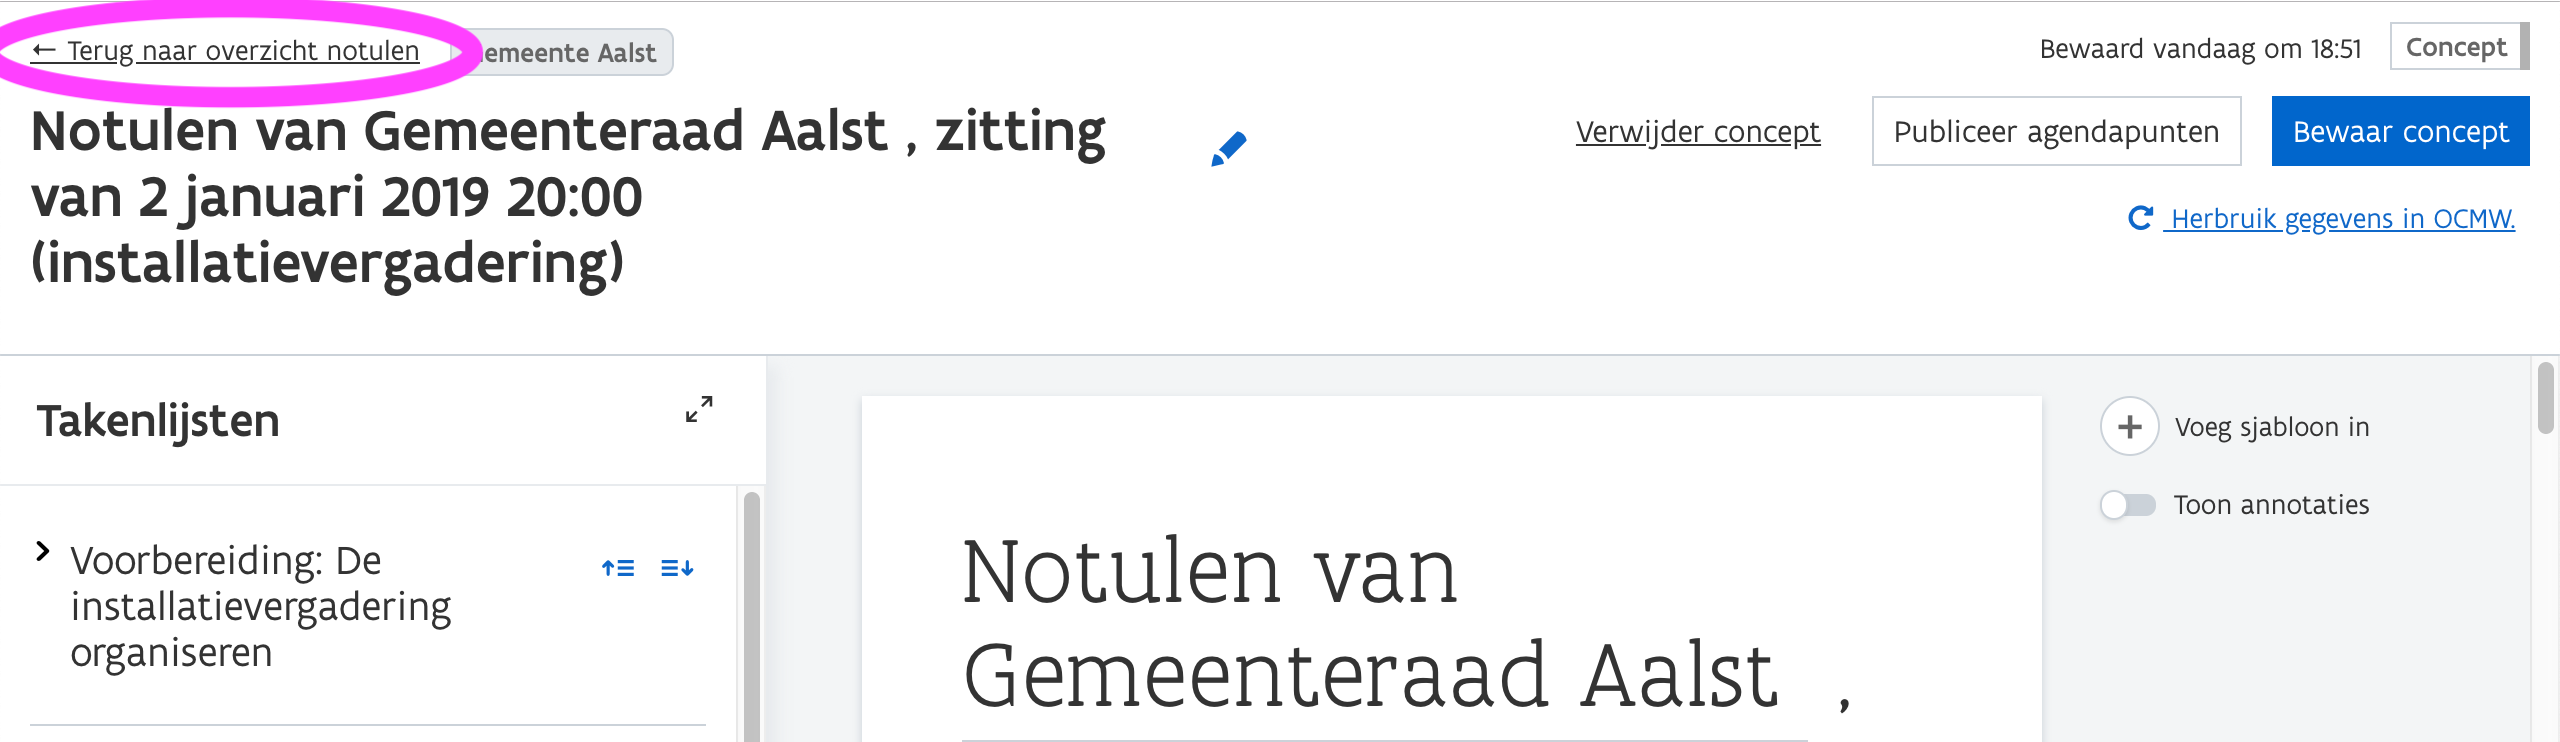
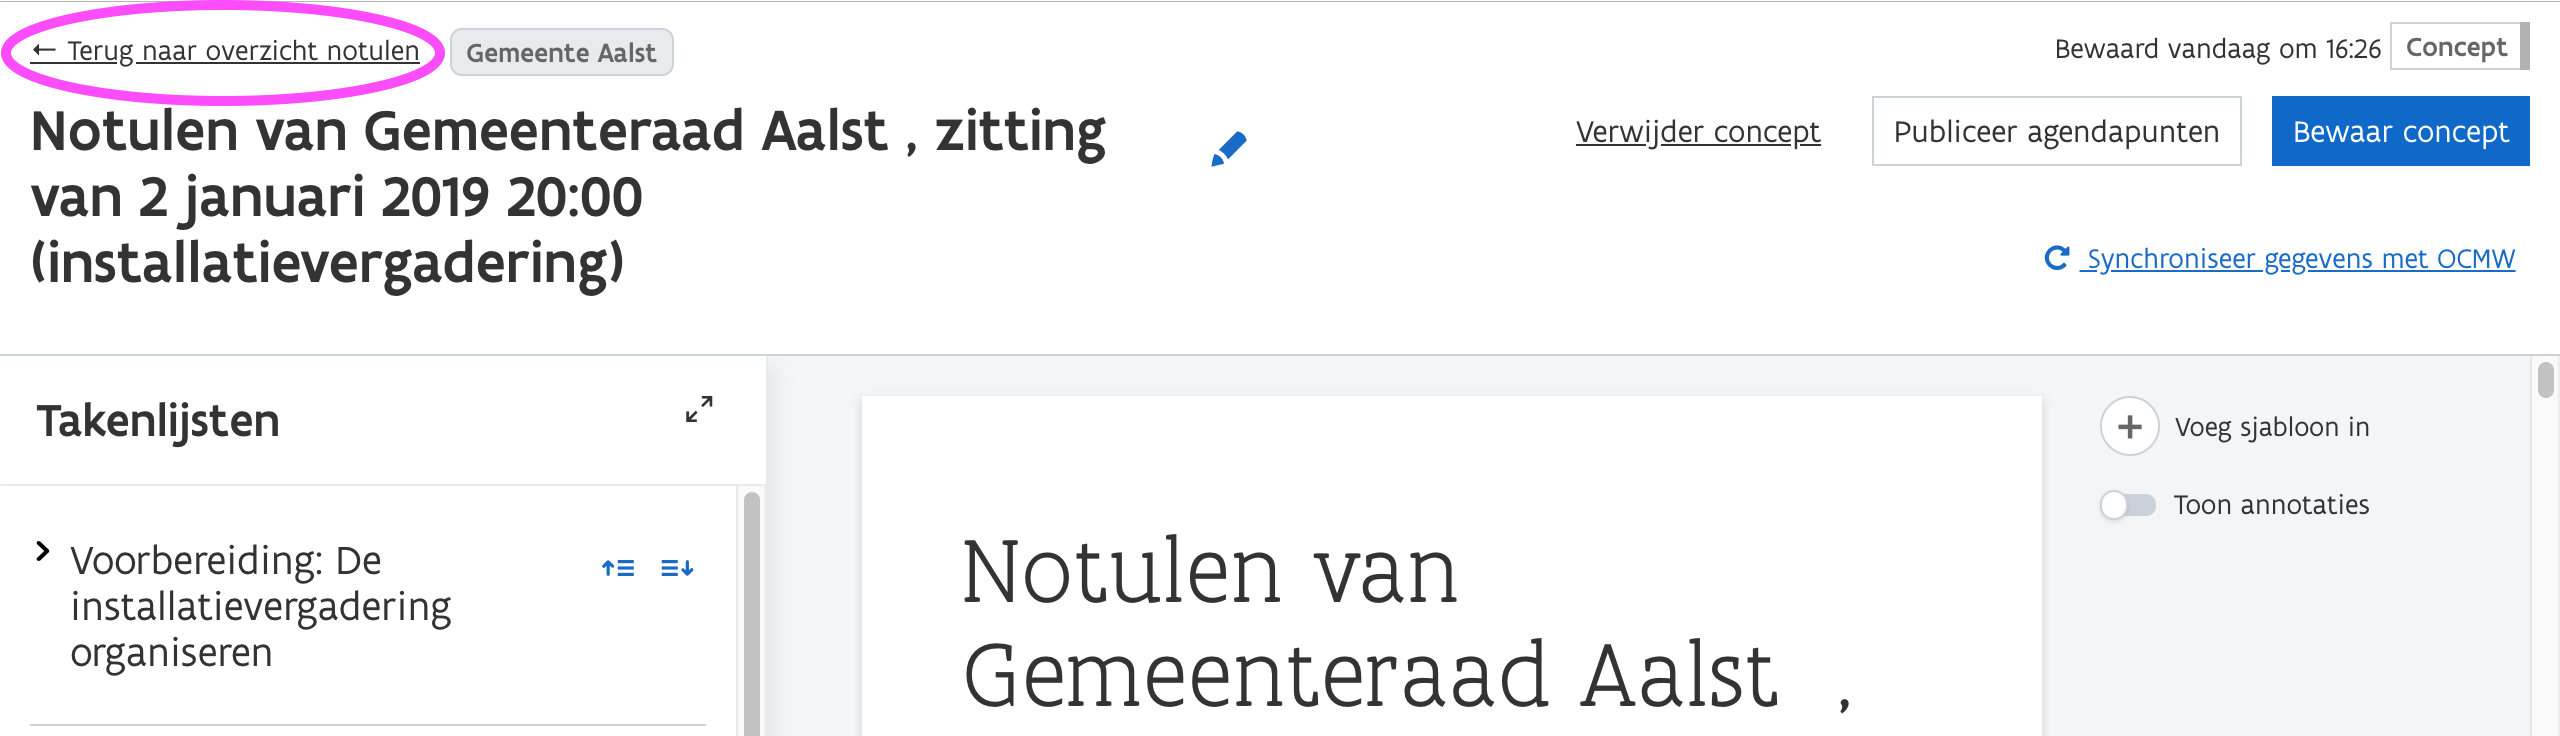
Update images to dutch and reformulate some issues

diff --git a/index.html b/index.html
@@ -275,10 +275,10 @@
               <p>Vervolgens verschijnt er een popup, die u enkele veilige opties voorstelt om u mee aan te melden.</p>
 
               <div class="vl-grid">
-                <div class="vl-col--6-12 vl-col--1-1--s">
+                <div class="vl-col--6-12 vl-col--6-12--m vl-col--1-1--s">
                   <img class="cus-manual__picture cus-u-spacer--large" src="img/login/login-popup.png">
                 </div>
-                <div class="vl-col--6-12 vl-col--1-1--s">
+                <div class="vl-col--6-12 vl-col--6-12--m vl-col--1-1--s">
                   <img class="cus-manual__picture cus-u-spacer--large" src="img/login/login-keuzes.png">
                 </div>
               </div>
@@ -310,11 +310,11 @@
                 	<p>U komt op het tabblad "ontwerpen" terecht. Daar vindt u al de notulen die in voorbereiding of in behandeling zijn.</p>
 									<img src="img/overzicht/overzicht-0-1-ontwerpen-leeg.png" class="cus-manual__picture cus-u-spacer--large">
 								</div>
-		            <div class="vl-col--6-12 vl-col--1-1--s">
+		            <div class="vl-col--6-12 vl-col--1-1--m vl-col--1-1--s">
 		            	<p>Eens notulen gepubliceerd en goedgekeurd zijn, komen ze in het tabblad "goedgekeurd" terecht.</p>
 									<img src="img/overzicht/overzicht-0-2-goedgekeurd-leeg.png" class="cus-manual__picture cus-u-spacer--large">
 								</div>
-		            <div class="vl-col--6-12 vl-col--1-1--s">
+		            <div class="vl-col--6-12 vl-col--1-1--m vl-col--1-1--s">
 		            	<p>Concepten kunnen altijd verwijderd worden, en komen in de prullenbak terecht.</p>
 									<img src="img/overzicht/overzicht-0-3-prullenbak-leeg.png" class="cus-manual__picture cus-u-spacer--large">
 								</div>
@@ -350,10 +350,10 @@
 							<img src="img/notuleren/notuleren-0-3-kies-sjabloon.png" class="cus-manual__picture cus-u-spacer--large">
 
               <div class="vl-grid">
-              	<div class="vl-col--5-12">
+              	<div class="vl-col--5-12 vl-col--1-1--m vl-col--1-1--s">
 									<img src="img/notuleren/notuleren-0-4-kies-sjabloon-optie.png" class="cus-manual__picture cus-u-spacer--large">
               	</div>
-              	<div class="vl-col--7-12">
+              	<div class="vl-col--7-12 vl-col--1-1--m vl-col--1-1--s">
               		<p>De volgende sjablonen zijn momenteel beschikbaar:</p>
               		<ul class="cus-bullet-list">
               			<li>installatievergadering met politieraad (klassieke stijl)
@@ -373,72 +373,10 @@
               				<span class="cus-text-fade">Dit is een sjabloon voor de gemeenteraad</span>
               			</li>
               			<li>Eerste vergadering OCMW-raad (klassieke stijl)</li>
+              			<li>Eerste vergadering OCMW-raad (nieuwe stijl stijl)</li>
               		</ul>
-              		<p>In de week van 18 december zal ook de eerste vergadering OCMW-raad in de nieuwe stijl beschikbaar zijn.</p>
               	</div>
               </div>
-
-              <br>
-              <article id="notuleren-synchroniseren">
-	              <h3 class="vl-title--h3">Gegevens tussen de installatievergadering van de gemeenteraad en de eerste zitting van de OCMW-raad synchroniseren</h3>
-	              <p>Het is mogelijk om informatie van de installatievergadering door te laten stromen naar de eerste vergadering van de OCMW-raad. U doet dit als volgt:</p>
-	              <ul class="cus-num-list">
-	              	<li>
-			          		<h4 class="vl-title--h4">Vervolledig uw notulen, en sla ze op</h4>
-			          		<p>Hierna verschijnt er een knop bovenaan rechts "Hergebruik gegevens in OCMW"</p>
-										<img src="img/installatie-ocmw/0-0-maak-document.png" class="cus-manual__picture">
-										<img src="img/installatie-ocmw/0-1-sla-op.png" class="cus-manual__picture cus-u-spacer--large">
-									</li>
-									<li>
-			          		<h4 class="vl-title--h4">Klik op de knop "Hergebruik gegevens in OCMW"</h4>
-			          		<p>Hierna verschijnt er een modal.</p>
-										<img src="img/installatie-ocmw/1-0-hergebruik-knop.png" class="cus-manual__picture cus-u-spacer--large">
-									</li>
-									<li>
-			          		<div class="vl-grid">
-			          			<div class="vl-col--6-12">
-					          		<h4 class="vl-title--h4">Klik op de knop "Hergebruik" onderaan in de modal</h4>
-					          		<p>De gegevens zijn nu klaar voor hergebruik.</p>
-					          	</div>
-			          			<div class="vl-col--6-12">
-												<img src="img/installatie-ocmw/1-1-hergebruik-modal.png" class="cus-manual__picture cus-u-spacer--large">
-											</div>
-										</div>
-									</li>
-									<li>
-			          		<h4 class="vl-title--h4">Ga terug naar het overzicht, en meld u af.</h4>
-										<img src="img/installatie-ocmw/2-0-terug-overzicht.png" class="cus-manual__picture">
-										<img src="img/installatie-ocmw/2-1-meld-af.png" class="cus-manual__picture cus-u-spacer--large">
-									</li>
-									<li>
-			          		<h4 class="vl-title--h4">Surf terug naar <a href="https://gelinkt-notuleren.vlaanderen.be/login" target="_blank">https://gelinkt-notuleren.vlaanderen.be</a> en meld u aan als OCMW-raad</h4>
-										<img src="img/installatie-ocmw/3-0-meld-aan.png" class="cus-manual__picture cus-u-spacer--large">
-									</li>
-									<li>
-			          		<div class="vl-grid">
-			          			<div class="vl-col--7-12">
-			          				<h4 class="vl-title--h4">Maak een nieuw document, en kies het sjabloon "Eerste vergadering OCMW-raad" (oude of nieuwe stijl)</h4>
-			          				<p>Kies het sjabloon "Eerste vergadering OCMW-raad" (oude of nieuwe stijl).</p>
-			          				<p>De gegevens van de installatievergadering van de gemeenteraad zijn nu beschikbaar in de editor.</p>
-			          			</div>
-			          			<div class="vl-col--5-12">
-												<img src="img/installatie-ocmw/4-0-kies-sjabloon.png" class="cus-manual__picture cus-u-spacer--large">
-			          			</div>
-			          		</div>
-									</li>
-									<li>
-			          		<div class="vl-grid">
-			          			<div class="vl-col--7-12">
-			          				<h4 class="vl-title--h4">Indien u de gegevens niet gesynchroniseerd heeft, krijgt u een foutmelding bij het laatste agendapunt van de eerste vergadering van de OCMW-raad</h4>
-			          				<p>Doorlop stap 1 tot en met 4.</p>
-			          			</div>
-			          			<div class="vl-col--5-12">
-												<img src="img/installatie-ocmw/5-foutmelding.png" class="cus-manual__picture cus-u-spacer--large">
-			          			</div>
-			          		</div>
-									</li>
-								</ul>
-							</article>
 
               <br>
 
@@ -461,11 +399,11 @@
 
               <h4 class="vl-title--h4">Takenlijst</h4>
               <div class="vl-grid">
-              	<div class="vl-col--6-12">
+              	<div class="vl-col--6-12 vl-col--1-1--s">
 		          		<p>Eens u een sjabloon heeft ingevoegd, verschijnt er een takenlijst links van de tekstverwerker die u helpt om het sjabloon te vervolledigen.</p>
 									<img src="img/notuleren/notuleren-0-7-a-takenlijst.png" class="cus-manual__picture cus-u-spacer--large">
 								</div>
-              	<div class="vl-col--6-12">
+              	<div class="vl-col--6-12 vl-col--1-1--s">
 		          		<p>Klik op de titels om de taken te vervolledigen, en vink het selectievakje aan eens u de taak heeft vervolledigd. Deze informatie wordt bijgehouden.</p>
 									<img src="img/notuleren/notuleren-0-7-b-takenlijst.png" class="cus-manual__picture cus-u-spacer--large">
 		            </div>
@@ -475,13 +413,14 @@
               <p>In het sjabloon verschijnen er gele en blauwe tekstblokken die ingevuld dienen te worden.</p>
               <p>Indien u op een gele tekstblok klikt, krijg u suggesties om in te vullen.</p>
               <div class="vl-grid">
-              	<div class="vl-col--6-12">
+              	<div class="vl-col--6-12 vl-col--1-1--s">
 									<img src="img/notuleren/notuleren-0-8-a-gele-tekst.png" class="cus-manual__picture cus-u-spacer--large">
 								</div>
-              	<div class="vl-col--6-12">
+              	<div class="vl-col--6-12 vl-col--1-1--s">
 									<img src="img/notuleren/notuleren-0-8-b-gele-tekst.png" class="cus-manual__picture cus-u-spacer--large">
 		            </div>
 		          </div>
+		          <p>Opgelet: selecteer steeds het juiste bestuursorgaan met de juiste bestuursperiode. Op deze manier kan de tekstverwerker de juiste data voor u verwerken.</p>
 
 		          <p>In de blauwe tekstblokken kan u manueel informatie toevoegen.</p>
 							<img src="img/notuleren/notuleren-0-9-a-blauwe-tekst.png" class="cus-manual__picture cus-u-spacer--large">
@@ -518,6 +457,83 @@
                 <li class="vl-icon-list__item"><i class="vl-vi vl-vi-calendar_check" aria-hidden="true"></i> link naar de juiste wetgeving uit de Vlaamse codex;</li>
                 <li class="vl-icon-list__item"><i class="vl-vi vl-vi-calendar_check" aria-hidden="true"></i> notuleer technisch conform de opgelegde standaarden;</li>
               </ul> -->
+              <br>
+              <article id="notuleren-synchroniseren">
+	              <h3 class="vl-title--h3">Gegevens tussen de installatievergadering van de gemeenteraad en de eerste zitting van de OCMW-raad synchroniseren</h3>
+	              <p>Het is mogelijk om informatie van de installatievergadering door te laten stromen naar de eerste vergadering van de OCMW-raad. In agendapunt 5 van de ocmw-raad zal u deze gegevens nodig hebben. U doet dit als volgt:</p>
+	              <ul class="cus-num-list">
+	              	<li>
+			          		<h4 class="vl-title--h4">Vervolledig agendapunt 3 in de installatievergadering van de gemeenteraad, en bewaar.</h4>
+			          		<p>Hierna verschijnt er een knop bovenaan rechts "Synchroniseer gegevens met OCMW"</p>
+										<img src="img/installatie-ocmw/0-0-maak-document.png" class="cus-manual__picture">
+										<img src="img/installatie-ocmw/0-1-sla-op.png" class="cus-manual__picture cus-u-spacer--large">
+									</li>
+									<li>
+			          		<h4 class="vl-title--h4">Klik op de knop bovenaan rechts "Synchroniseer gegevens met OCMW"</h4>
+			          		<p>Een modal verschijnt die kadert hoe het werkt.</p>
+										<img src="img/installatie-ocmw/1-0-hergebruik-knop.png" class="cus-manual__picture cus-u-spacer--large">
+									</li>
+									<li>
+			          		<div class="vl-grid">
+			          			<div class="vl-col--6-12 vl-col--1-1--s">
+					          		<h4 class="vl-title--h4">Klik op de knop "Synchroniseer gegevens" onderaan in de modal</h4>
+					          		<p>De gegevens zijn nu klaar voor hergebruik.</p>
+					          	</div>
+			          			<div class="vl-col--6-12 vl-col--1-1--s">
+												<img src="img/installatie-ocmw/1-1-hergebruik-modal.png" class="cus-manual__picture cus-u-spacer--large">
+											</div>
+										</div>
+									</li>
+									<li>
+			          		<h4 class="vl-title--h4">Ga terug naar het overzicht, en meld u af.</h4>
+										<img src="img/installatie-ocmw/2-0-terug-overzicht.png" class="cus-manual__picture">
+										<img src="img/installatie-ocmw/2-1-meld-af.png" class="cus-manual__picture cus-u-spacer--large">
+									</li>
+									<li>
+			          		<h4 class="vl-title--h4">Surf terug naar <a href="https://gelinkt-notuleren.vlaanderen.be/login" target="_blank">https://gelinkt-notuleren.vlaanderen.be</a> en meld u aan als OCMW-raad</h4>
+										<img src="img/installatie-ocmw/3-0-meld-aan.png" class="cus-manual__picture cus-u-spacer--large">
+									</li>
+									<li>
+			          		<div class="vl-grid">
+			          			<div class="vl-col--7-12 vl-col--1-1--s">
+			          				<h4 class="vl-title--h4">Maak een nieuw document, en kies het sjabloon "Eerste vergadering OCMW-raad" (oude of nieuwe stijl)</h4>
+			          				<p>De gegevens van de installatievergadering van de gemeenteraad zijn nu beschikbaar in de editor.</p>
+			          			</div>
+			          			<div class="vl-col--5-12 vl-col--1-1--s">
+												<img src="img/installatie-ocmw/4-0-kies-sjabloon.png" class="cus-manual__picture cus-u-spacer--large">
+			          			</div>
+			          		</div>
+									</li>
+									<li>
+			          		<p>Indien u wijzigingen heeft aangebracht in agendapunt 3 in tussentijd, dient u opnieuw te synchroniseren in het sjabloon van de OCMW-raad.</p>
+        						<ul class="cus-bullet-list">
+        							<li>Doorloop de stappen van 1 tot 5 van deze handleiding.</li>
+        							<li>Ga naar agendapunt 5, klik op uw tabel en klik daarna op <strong>Syncrhoniseer tabel met installatie gemeenteraad</strong>. Opgelet, dit overschrijft de huidige tabel.
+												<img src="img/installatie-ocmw/6-synchroniseer.png" class="cus-manual__picture cus-u-spacer--large" style="max-width: 500px;">
+        							</li>
+        						</ul>
+        						<h5 class="vl-title--h5 vl-u-spacer">Bij problemen of onduidelijkheden:</h5>
+			          		<div class="vl-grid">
+			          			<div class="vl-col--5-12 vl-col--1-1--s">
+			          				<p>Indien u de melding krijgt dat er <strong>geen OCMW-raadsleden beschikbaar</strong> zijn in agendapunt 5, of <strong>u krijgt de mogelijkheid niet om het scenario te selecteren</strong>; bekijk dan een van de volgende scenario's:</p>
+			          			</div>
+			          			<div class="vl-col--7-12 vl-col--1-1--s">
+												<img src="img/installatie-ocmw/5-foutmelding.png" class="cus-manual__picture cus-u-spacer--large">
+			          			</div>
+			          			<div class="vl-col--12-12 vl-col--1-1--s">
+			          				<ul class="cus-bullet-list">
+			          					<li><strong>Bestuurseenheid</strong>: u moet ingelogd zijn als OCMW-raad. Indien niet, meld u af in het overzicht (stap 4), en meld u weer aan als OCMW (stap 5).</li>
+			          					<li><strong>Agendapunt 3 werd niet vervolledigd</strong>: meld u aan als gemeenteraad, en kijk na of agendapunt 3 in de installatievergadering vervolledigd en bewaard werd. Kijk vooral naar het besluit.</li>
+			          					<li><strong>U heeft een ander bestuursorgaan geselecteerd</strong>: Kies voor "Raad voor Maatschappelijk Welzijn Aalst &mdash; Vanaf 01/01/2019" in de titel.</li>
+			          					<li><strong>U heeft een andere bestuursperiode geselecteerd</strong>: Kies voor "Raad voor Maatschappelijk Welzijn Aalst &mdash; <strong>Vanaf 01/01/2019</strong>" in de titel.</li>
+			          				</ul>
+			          				<p><a href="mailto:GelinktNotuleren@vlaanderen.be">Neem contact met ons op</a> indien deze scenario's uw probleem niet oplossen.</p>
+			          			</div>
+			          		</div>
+									</li>
+								</ul>
+							</article>
+							<br>
 
               <article id="notuleren-printen">
               	<h3 class="vl-title--h3">Hoe maak ik een PDF of een print van notulen?</h3>
@@ -526,12 +542,12 @@
               		<li>
 		              	<h5 class="vl-title--h5 cus-u-spacer--large">Open de notulen die u wil printen of opslaan, laat de pagina printen.</h5>
               			<div class="vl-grid">
-              				<div class="vl-col--6-12">
+              				<div class="vl-col--6-12 vl-col--1-1--s">
 		              			<h6 class="vl-title--h6 vl-u-spacer">Optie 1: via het menu.</h6>
 		              			<p>Ga naar <strong>het dropdown menu</strong> of <strong>bestand</strong> en kies <strong>Print</strong>.</p>
-												<img src="img/print/print-firefox-file.png" style="max-width: 200px;" class="cus-manual__picture cus-u-spacer--large">
+												<img src="img/print/print-firefox-file.png" style="max-width: 250px;" class="cus-manual__picture cus-u-spacer--large">
               				</div>
-              				<div class="vl-col--6-12">
+              				<div class="vl-col--6-12 vl-col--1-1--s">
 		              			<h6 class="vl-title--h6 vl-u-spacer">Optie 2: toetsencombinatie</h6>
 		              			<p>Klik naast het witte editor vlak, zodat u niet meer aan het editeren bent. Hou vervolgens op uw toetsenbord tegelijkertijd <strong>ctrl</strong> en <strong>p</strong> in.</p>
 												<img src="img/print/print-commands.png" style="max-width: 200px;" class="cus-u-spacer--large">
@@ -542,13 +558,13 @@
 		              	<h5 class="vl-title--h5">Een PDF of een print maken.</h5>
 		              	<p class="cus-u-spacer--large">Een print of een PDF van de pagina maken verloopt via dezelfde route.</p>
               			<div class="vl-grid">
-              				<div class="vl-col--6-12">
+              				<div class="vl-col--12-12">
 		              			<h6 class="vl-title--h6 vl-u-spacer">Printen</h6>
-		              			<p>Er opent een modal. U krijgt geen voorvertoning van de print. Indien u dit wel wenst, maak eerst een PDF van de notulen.</p>
+		              			<p>Er opent een modal. In sommige versies van Firefox krijgt u geen voorvertoning van de print. Indien u dit wel wenst, maak eerst een PDF van de notulen.</p>
 		              			<p>Kies de juiste printer of een PDF en klik op <strong>OK</strong>.</p>
 												<img src="img/print/print-firefox.png" class="cus-manual__picture cus-u-spacer--large">
               				</div>
-              				<div class="vl-col--6-12">
+              				<div class="vl-col--12-12">
 		              			<h6 class="vl-title--h6 vl-u-spacer">Een PDF maken</h6>
 		              			<p>Kies <strong>PDF</strong> en klik op <strong>OK</strong>.</p>
 												<img src="img/print/print-firefox-change-type.png" class="cus-manual__picture cus-u-spacer--large">
@@ -562,12 +578,12 @@
               		<li>
 		              	<h5 class="vl-title--h5 vl-u-spacer">Open de notulen die u wil printen of opslaan, laat de pagina printen.</h5>
               			<div class="vl-grid">
-              				<div class="vl-col--6-12">
+              				<div class="vl-col--6-12 vl-col--1-1--s">
 		              			<h6 class="vl-title--h6 vl-u-spacer">Optie 1: via het menu.</h6>
 		              			<p>Ga naar <strong>het dropdown menu</strong> of <strong>bestand</strong> en kies <strong>Print</strong>.</p>
-												<img src="img/print/print-chrome-file.png" style="max-width: 200px;" class="cus-manual__picture cus-u-spacer--large">
+												<img src="img/print/print-chrome-file.png" style="max-width: 250px;" class="cus-manual__picture cus-u-spacer--large">
               				</div>
-              				<div class="vl-col--6-12">
+              				<div class="vl-col--6-12 vl-col--1-1--s">
               					<h6 class="vl-title--h6 vl-u-spacer">Optie 2: toetsencombinatie</h6>
 		              			<p>Klik naast het witte editor vlak, zodat u niet meer aan het editeren bent. Hou vervolgens op uw toetsenbord tegelijkertijd <strong>ctrl</strong> en <strong>p</strong> in.</p>
 												<img src="img/print/print-commands.png" style="max-width: 200px;" class="cus-u-spacer--large">
@@ -577,12 +593,12 @@
               		<li>
 		              	<h5 class="vl-title--h5 vl-u-spacer">Een PDF of een print maken.</h5>
               			<div class="vl-grid">
-              				<div class="vl-col--6-12">
+              				<div class="vl-col--12-12">
 		              			<h6 class="vl-title--h6 vl-u-spacer">Printen</h6>
 		              			<p>Er opent een modal. Er verschijnt een voorvertoning van uw print. Kies de juiste printer en klik op <strong>OK</strong>.</p>
 												<img src="img/print/print-chrome.png" class="cus-manual__picture cus-u-spacer--large">
               				</div>
-              				<div class="vl-col--6-12">
+              				<div class="vl-col--12-12">
 		              			<h6 class="vl-title--h6 vl-u-spacer">Een PDF maken</h6>
 		              			<p>Kies <strong>PDF</strong> en klik op <strong>OK</strong>.</p>
 												<img src="img/print/print-chrome-change-type.png" class="cus-manual__picture cus-u-spacer--large">
@@ -677,11 +693,11 @@
 
               <p>Vul automatisch de mandatendatabank aan bij het publiceren van uw notulen. De mandaten worden gepubliceerd op <a href="https://loket.lokaalbestuur.vlaanderen.be/" target="_blank">https://loket.lokaalbestuur.vlaanderen.be</a> voor de Vlaamse Overheid en aangevuld op <a href="http://mandaten.lokaalbestuur.vlaanderen.be" target="_blank">http://mandaten.lokaalbestuur.vlaanderen.be</a> voor de burgers.</p>
               <div class="vl-grid">
-              	<div class="vl-col--6-12">
+              	<div class="vl-col--6-12 vl-col--1-1--s">
               		<p>Website mandatenbeheer</p>
 									<img src="img/mandatenbeheer/mb-0-overzicht.png" class="cus-manual__picture cus-u-spacer--large">
               	</div>
-              	<div class="vl-col--6-12">
+              	<div class="vl-col--6-12 vl-col--1-1--s">
               		<p>Website mandatendatabank</p>
 									<img src="img/mandatenbeheer/md-0-landing.png" class="cus-manual__picture cus-u-spacer--large">
 								</div>
